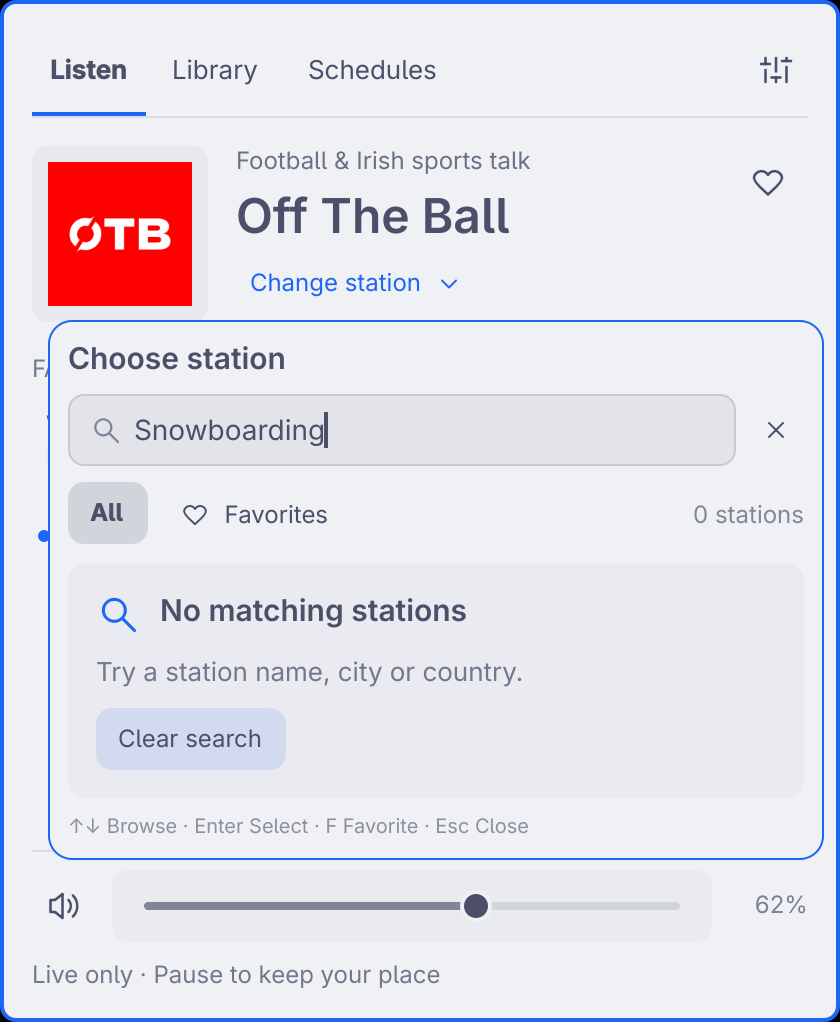
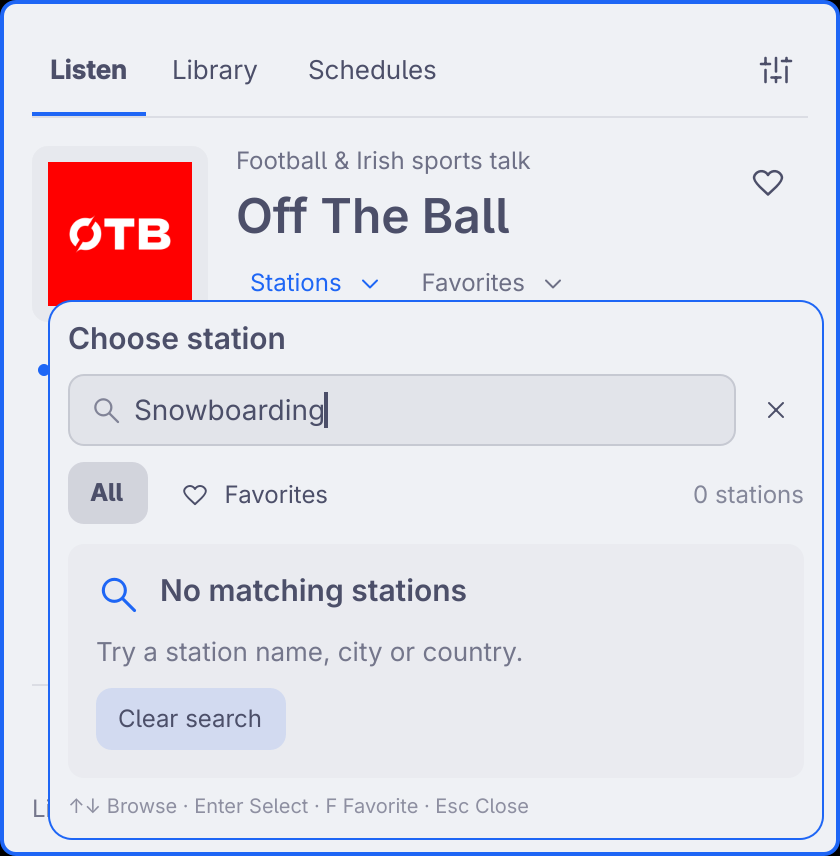
Refresh native player screenshots for compact favorites navigation

diff --git a/docs/screenshots.md b/docs/screenshots.md
@@ -55,6 +55,8 @@ states should be internally consistent; avoid retaining a previous example's
 buffering or timer state in an unrelated view.
 
 The 1.7 gallery shows padded schedule windows and a recovered partial recording.
+The current player keeps favorites behind a compact dropdown beside the station
+picker, so the saved-station list does not change the player's vertical layout.
 Its unknown capture end is deliberate: a forced controller exit cannot supply a
 precise end timestamp. The editor's preview timer is paused only in the temporary
 screenshot wrapper, so illustrative preview text is not replaced by a disconnected
